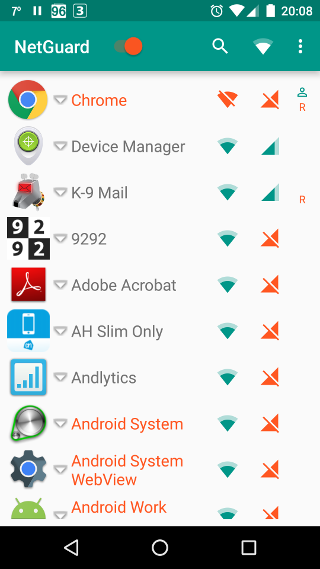
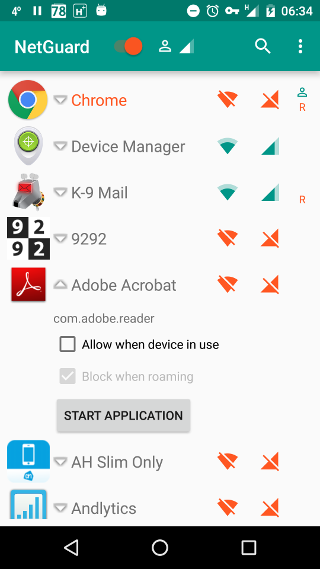
Display interactive state, simplifications

diff --git a/app/src/main/java/eu/faircode/netguard/ActivityMain.java b/app/src/main/java/eu/faircode/netguard/ActivityMain.java
@@ -37,6 +37,7 @@ import android.view.MenuItem;
 import android.view.View;
 import android.widget.Button;
 import android.widget.CompoundButton;
+import android.widget.ImageView;
 import android.widget.TextView;
 import android.widget.Toast;
 
@@ -65,10 +66,13 @@ public class ActivityMain extends AppCompatActivity implements SharedPreferences
     private static final String TAG = "NetGuard.Main";
 
     private boolean running = false;
+    private ImageView ivInteractive;
+    private ImageView ivWifi;
+    private ImageView ivOther;
+    private ImageView ivRoaming;
     private SwipeRefreshLayout swipeRefresh;
     private RuleAdapter adapter = null;
     private MenuItem menuSearch = null;
-    private MenuItem menuNetwork = null;
     private IInAppBillingService billingService = null;
 
     private static final int REQUEST_VPN = 1;
@@ -96,12 +100,16 @@ public class ActivityMain extends AppCompatActivity implements SharedPreferences
         boolean enabled = prefs.getBoolean("enabled", false);
 
         // Action bar
-        View customView = getLayoutInflater().inflate(R.layout.actionbar, null);
+        View actionView = getLayoutInflater().inflate(R.layout.action, null);
+        SwitchCompat swEnabled = (SwitchCompat) actionView.findViewById(R.id.swEnabled);
+        ivInteractive = (ImageView) actionView.findViewById(R.id.ivInteractive);
+        ivWifi = (ImageView) actionView.findViewById(R.id.ivWifi);
+        ivOther = (ImageView) actionView.findViewById(R.id.ivOther);
+        ivRoaming = (ImageView) actionView.findViewById(R.id.ivRoaming);
         getSupportActionBar().setDisplayShowCustomEnabled(true);
-        getSupportActionBar().setCustomView(customView);
+        getSupportActionBar().setCustomView(actionView);
 
         // On/off switch
-        SwitchCompat swEnabled = (SwitchCompat) customView.findViewById(R.id.swEnabled);
         swEnabled.setChecked(enabled);
         swEnabled.setOnCheckedChangeListener(new CompoundButton.OnCheckedChangeListener() {
             public void onCheckedChanged(CompoundButton buttonView, boolean isChecked) {
@@ -128,6 +136,15 @@ public class ActivityMain extends AppCompatActivity implements SharedPreferences
                 }
             }
         });
+
+        // Display status
+        ivInteractive.setVisibility(Util.isInteractive(this) ? View.VISIBLE : View.GONE);
+        if (Util.isWifiActive(this))
+            ivWifi.setVisibility(View.VISIBLE);
+        else if (Util.isRoaming(this))
+            ivRoaming.setVisibility(View.VISIBLE);
+        else
+            ivOther.setVisibility(View.VISIBLE);
 
         // Disabled warning
         TextView tvDisabled = (TextView) findViewById(R.id.tvDisabled);
@@ -157,6 +174,12 @@ public class ActivityMain extends AppCompatActivity implements SharedPreferences
         // Listen for preference changes
         prefs.registerOnSharedPreferenceChangeListener(this);
 
+        // Listen for interactive state changes
+        IntentFilter ifInteractive = new IntentFilter();
+        ifInteractive.addAction(Intent.ACTION_SCREEN_ON);
+        ifInteractive.addAction(Intent.ACTION_SCREEN_OFF);
+        registerReceiver(interactiveStateReceiver, ifInteractive);
+
         // Listen for connectivity updates
         IntentFilter ifConnectivity = new IntentFilter();
         ifConnectivity.addAction(ConnectivityManager.CONNECTIVITY_ACTION);
@@ -181,6 +204,8 @@ public class ActivityMain extends AppCompatActivity implements SharedPreferences
         running = false;
 
         PreferenceManager.getDefaultSharedPreferences(this).unregisterOnSharedPreferenceChangeListener(this);
+
+        unregisterReceiver(interactiveStateReceiver);
         unregisterReceiver(connectivityChangedReceiver);
         unregisterReceiver(packageChangedReceiver);
 
@@ -190,16 +215,32 @@ public class ActivityMain extends AppCompatActivity implements SharedPreferences
         super.onDestroy();
     }
 
+    private BroadcastReceiver interactiveStateReceiver = new BroadcastReceiver() {
+        @Override
+        public void onReceive(Context context, Intent intent) {
+            Log.i(TAG, "Received " + intent);
+            Util.logExtras(TAG, intent);
+
+            ivInteractive.setVisibility(Intent.ACTION_SCREEN_ON.equals(intent.getAction()) ? View.VISIBLE : View.GONE);
+        }
+    };
+
     private BroadcastReceiver connectivityChangedReceiver = new BroadcastReceiver() {
         @Override
         public void onReceive(Context context, Intent intent) {
             Log.i(TAG, "Received " + intent);
             Util.logExtras(TAG, intent);
-            if (menuNetwork != null)
-                menuNetwork.setIcon(
-                        Util.isWifiActive(context) ? R.drawable.ic_network_wifi_white_24dp :
-                                Util.isRoaming(context) ? R.drawable.ic_network_cell_white_24px_roaming :
-                                        R.drawable.ic_network_cell_white_24dp);
+
+            ivWifi.setVisibility(View.GONE);
+            ivOther.setVisibility(View.GONE);
+            ivRoaming.setVisibility(View.GONE);
+
+            if (Util.isWifiActive(context))
+                ivWifi.setVisibility(View.VISIBLE);
+            else if (Util.isRoaming(context))
+                ivRoaming.setVisibility(View.VISIBLE);
+            else
+                ivOther.setVisibility(View.VISIBLE);
         }
     };
 
@@ -319,11 +360,6 @@ public class ActivityMain extends AppCompatActivity implements SharedPreferences
     public boolean onPrepareOptionsMenu(Menu menu) {
         SharedPreferences prefs = PreferenceManager.getDefaultSharedPreferences(this);
 
-        menu.findItem(R.id.menu_network).setIcon(
-                Util.isWifiActive(this) ? R.drawable.ic_network_wifi_white_24dp :
-                        Util.isRoaming(this) ? R.drawable.ic_network_cell_white_24px_roaming :
-                                R.drawable.ic_network_cell_white_24dp);
-
         menu.findItem(R.id.menu_whitelist_wifi).setChecked(prefs.getBoolean("whitelist_wifi", true));
         menu.findItem(R.id.menu_whitelist_other).setChecked(prefs.getBoolean("whitelist_other", true));
         menu.findItem(R.id.menu_whitelist_roaming).setChecked(prefs.getBoolean("whitelist_roaming", true));
@@ -343,10 +379,6 @@ public class ActivityMain extends AppCompatActivity implements SharedPreferences
 
         // Handle item selection
         switch (item.getItemId()) {
-            case R.id.menu_network:
-                menu_network();
-                return true;
-
             case R.id.menu_whitelist_wifi:
                 menu_whitelist_wifi(prefs);
                 return true;
@@ -390,15 +422,6 @@ public class ActivityMain extends AppCompatActivity implements SharedPreferences
             default:
                 return super.onOptionsItemSelected(item);
         }
-    }
-
-    private void menu_network() {
-        Intent settings = new Intent(Util.isWifiActive(this)
-                ? Settings.ACTION_WIFI_SETTINGS : Settings.ACTION_WIRELESS_SETTINGS);
-        if (settings.resolveActivity(getPackageManager()) != null)
-            startActivity(settings);
-        else
-            Log.w(TAG, settings + " not available");
     }
 
     private void menu_whitelist_wifi(SharedPreferences prefs) {

diff --git a/app/src/main/java/eu/faircode/netguard/SinkholeService.java b/app/src/main/java/eu/faircode/netguard/SinkholeService.java
@@ -222,7 +222,7 @@ public class SinkholeService extends VpnService {
             thread.interrupt();
     }
 
-    private BroadcastReceiver packageAddedReceiver = new BroadcastReceiver() {
+    private BroadcastReceiver interactiveStateReceiver = new BroadcastReceiver() {
         @Override
         public void onReceive(Context context, Intent intent) {
             Log.i(TAG, "Received " + intent);
@@ -249,7 +249,7 @@ public class SinkholeService extends VpnService {
         }
     };
 
-    private BroadcastReceiver interactiveStateReceiver = new BroadcastReceiver() {
+    private BroadcastReceiver packageAddedReceiver = new BroadcastReceiver() {
         @Override
         public void onReceive(Context context, Intent intent) {
             Log.i(TAG, "Received " + intent);
@@ -263,22 +263,22 @@ public class SinkholeService extends VpnService {
         super.onCreate();
         Log.i(TAG, "Create");
 
-        // Listen for added applications
-        IntentFilter ifPackage = new IntentFilter();
-        ifPackage.addAction(Intent.ACTION_PACKAGE_ADDED);
-        ifPackage.addDataScheme("package");
-        registerReceiver(packageAddedReceiver, ifPackage);
+        // Listen for interactive state changes
+        IntentFilter ifInteractive = new IntentFilter();
+        ifInteractive.addAction(Intent.ACTION_SCREEN_ON);
+        ifInteractive.addAction(Intent.ACTION_SCREEN_OFF);
+        registerReceiver(interactiveStateReceiver, ifInteractive);
 
         // Listen for connectivity updates
         IntentFilter ifConnectivity = new IntentFilter();
         ifConnectivity.addAction(ConnectivityManager.CONNECTIVITY_ACTION);
         registerReceiver(connectivityChangedReceiver, ifConnectivity);
 
-        // Listen for interactive state changes
-        IntentFilter ifInteractive = new IntentFilter();
-        ifInteractive.addAction(Intent.ACTION_SCREEN_ON);
-        ifInteractive.addAction(Intent.ACTION_SCREEN_OFF);
-        registerReceiver(interactiveStateReceiver, ifInteractive);
+        // Listen for added applications
+        IntentFilter ifPackage = new IntentFilter();
+        ifPackage.addAction(Intent.ACTION_PACKAGE_ADDED);
+        ifPackage.addDataScheme("package");
+        registerReceiver(packageAddedReceiver, ifPackage);
     }
 
     @Override
@@ -291,9 +291,9 @@ public class SinkholeService extends VpnService {
             vpn = null;
         }
 
-        unregisterReceiver(packageAddedReceiver);
-        unregisterReceiver(connectivityChangedReceiver);
         unregisterReceiver(interactiveStateReceiver);
+        unregisterReceiver(connectivityChangedReceiver);
+        unregisterReceiver(packageAddedReceiver);
 
         super.onDestroy();
     }
